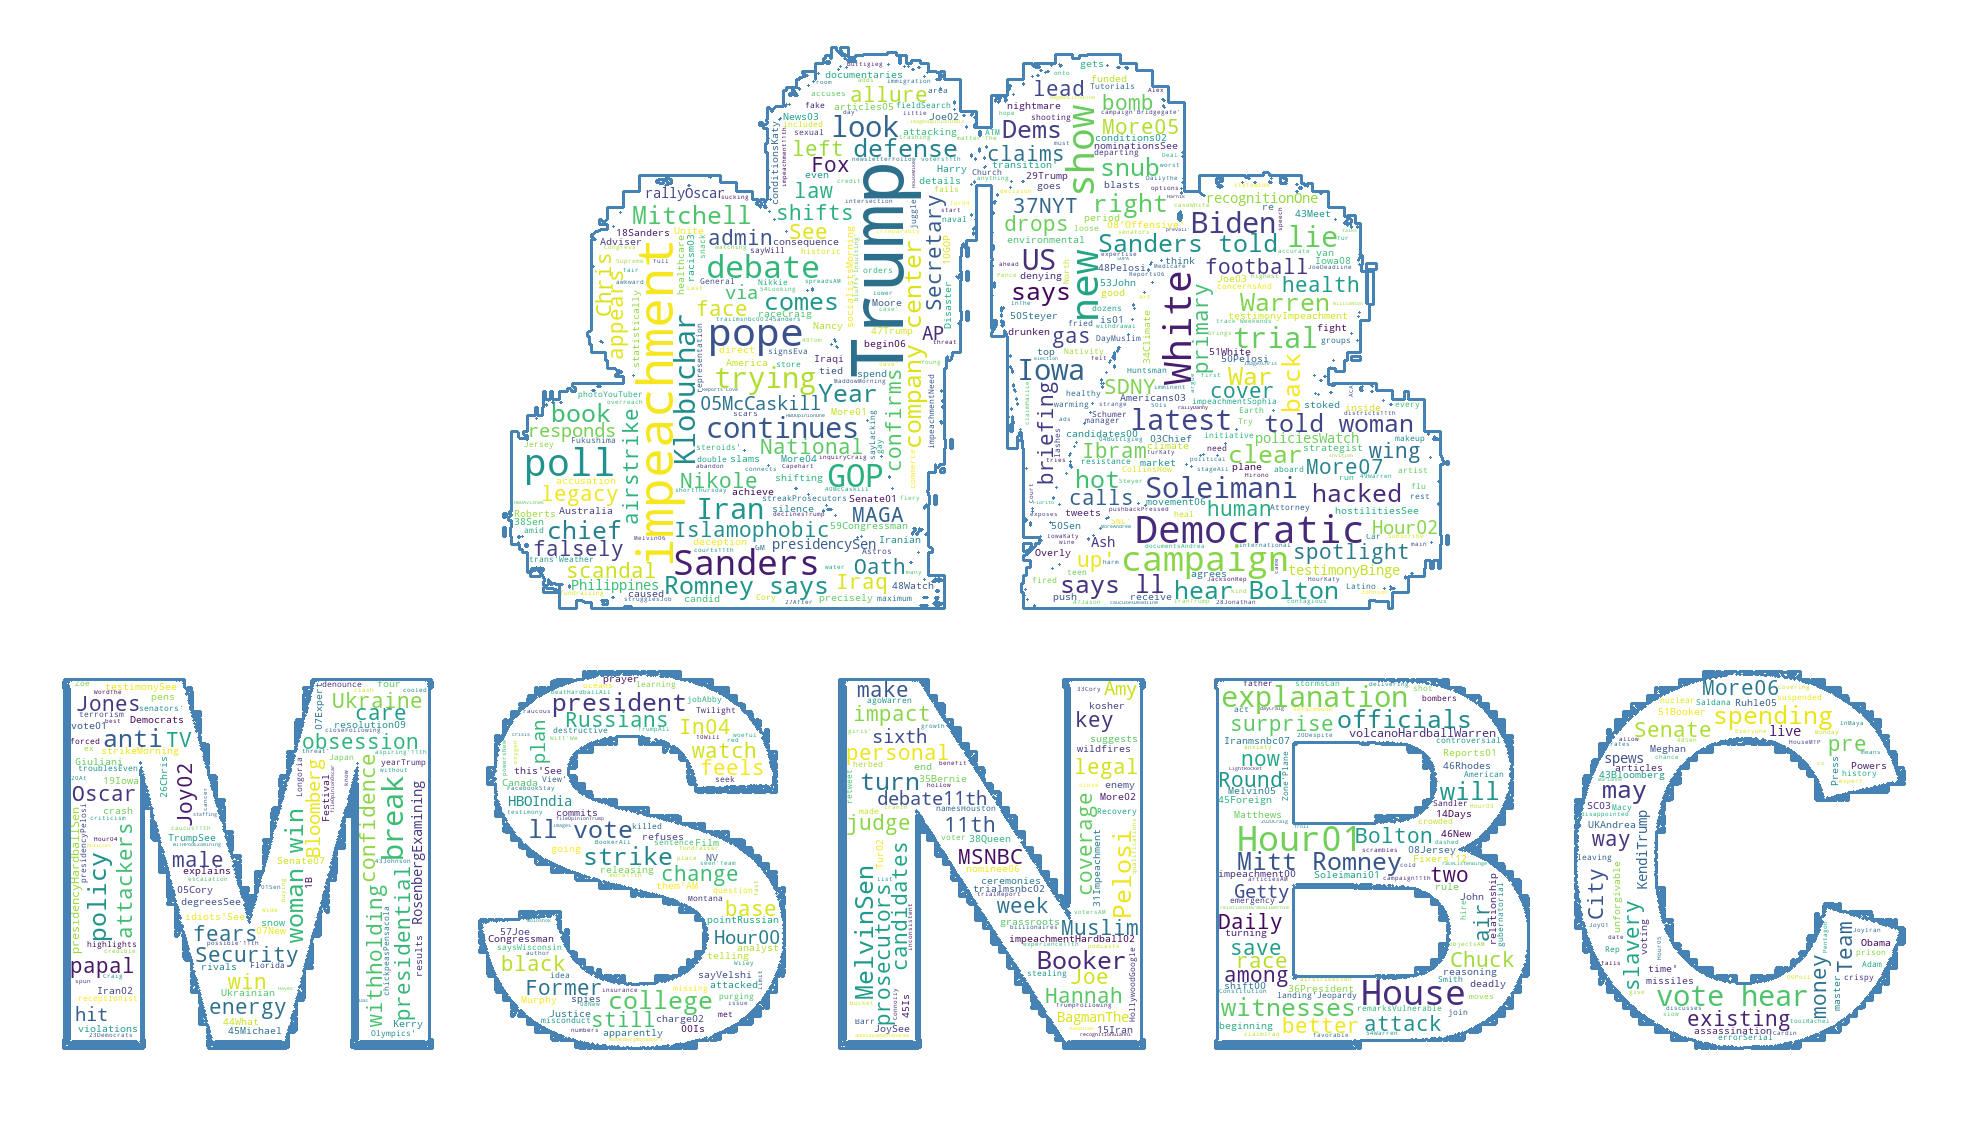
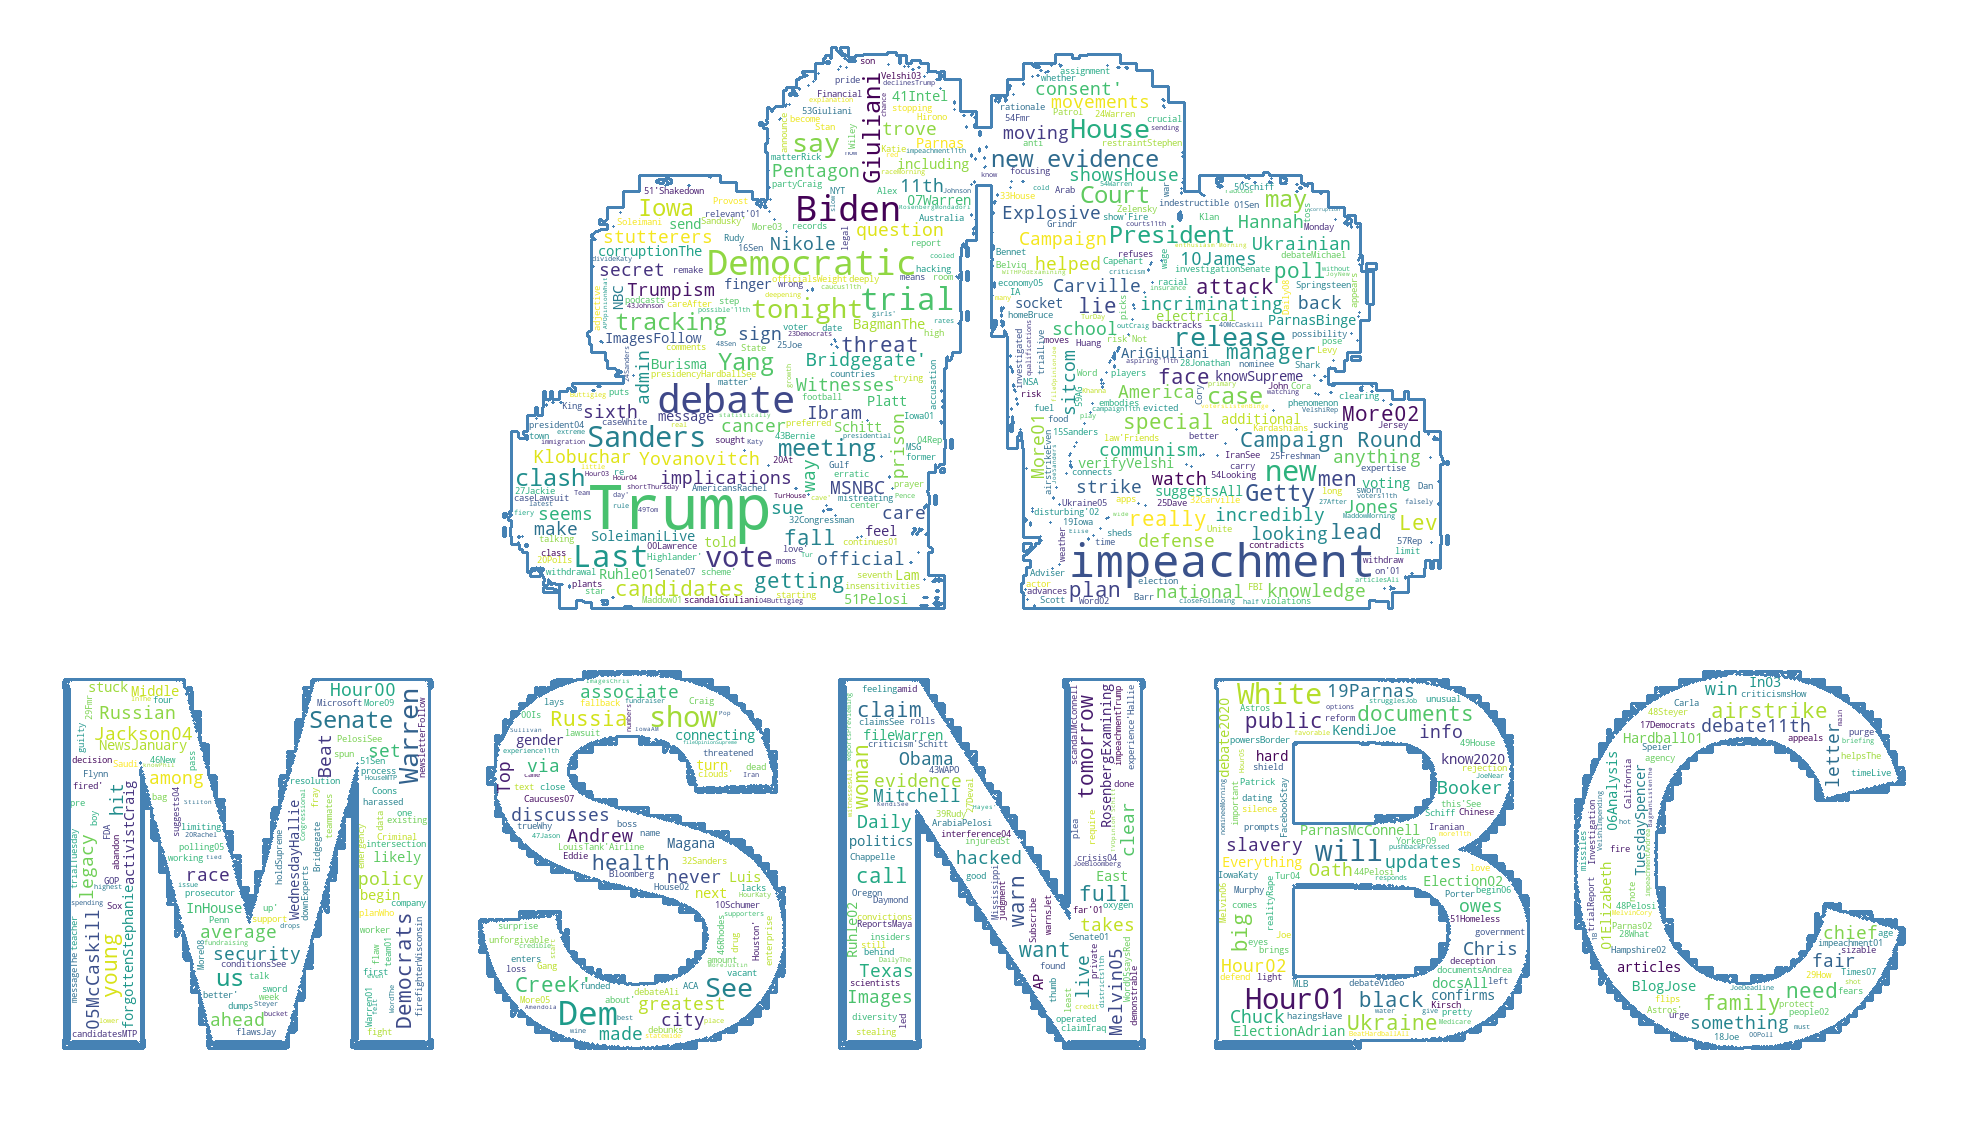
successfuly able to send wrdcld image to client

diff --git a/py_scraper/views.py b/py_scraper/views.py
@@ -1,5 +1,6 @@
 from django.shortcuts import render
 from django.core.exceptions import ObjectDoesNotExist
+from django.http import HttpResponse, HttpResponseNotFound
 import requests, bs4, time, pdb, os.path
 from selenium import webdriver
 from py_scraper.newscloud import wcgenerator
@@ -44,17 +45,11 @@ def scrape_msnbc(request):
       for text in ec:
           msnbcfile.write(text.text)
   msnbcfile.close()
-  result = wcgenerator("msnbcnews.txt", "msnbc.jpg", "msnbcwrdcld.png")
-  return result   # throws AttributeError on return command. May require render function to work  
-
-
-  #   context = {
-  #     'form': form,
-  #     'add_word': add_word_form,
-  #     'projects': projects,
-  # }
-
-  # return render(request, 'local_apps.html', context)
+  try:
+    wrdcld = wcgenerator("msnbcnews.txt", "msnbc.jpg", "msnbcwrdcld.png")
+    return wrdcld
+  except:
+    return HttpResponseNotFound(status=500)
 
 
 

diff --git a/py_scraper/newscloud.py b/py_scraper/newscloud.py
@@ -1,3 +1,4 @@
+from django.http import FileResponse
 import os, pdb
 from os import path
 from PIL import Image       # PIL: Python Imaging Library
@@ -26,7 +27,6 @@ def wcgenerator(newsfile, imgpath, wrdcld):
     # store to file
     wc.to_file(path.join(d, f"py_scraper/static/imgs/{wrdcld}"))
 
-    # open and save file to variable
-    # image = open(path.join(d, f"imgs/{wrdcld}")).read()
-
-    return "success!"
+    wrdcld = FileResponse(open(path.join(d, 'py_scraper/static/imgs/msnbcwrdcld.png'), "rb"))
+    return wrdcld
+    # return "success!"
